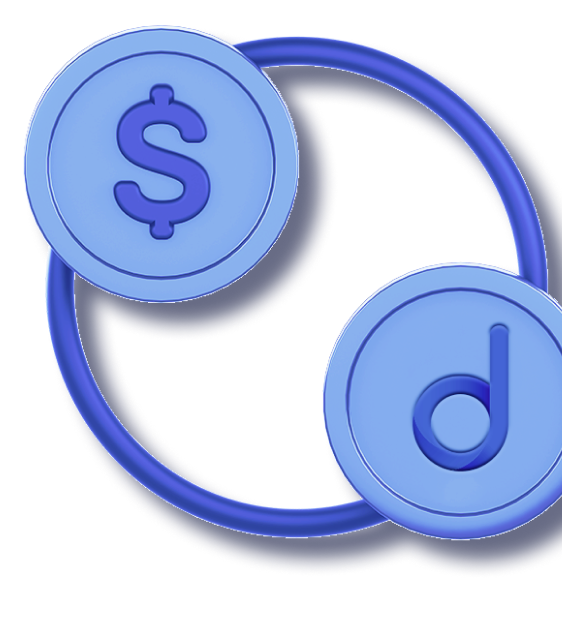
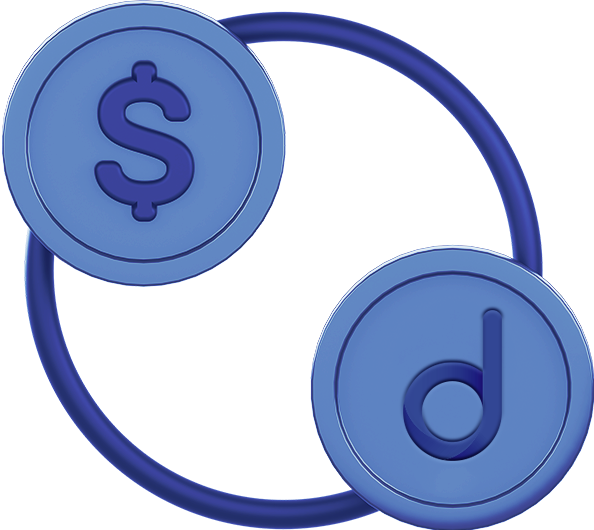
background image position fix

diff --git a/frontend-landing/src/pages/Landing/sections/advertise.section.tsx b/frontend-landing/src/pages/Landing/sections/advertise.section.tsx
@@ -18,11 +18,23 @@ import { ThemeSwitch, TokenCard } from 'components'
 
 const useStyles = makeStyles(({ palette, breakpoints }) => ({
   root: {
-    background: `url(${BACKGROUND_COIN}) right top no-repeat, url(${BACKGROUND_WAVE}) left top no-repeat`,
-    backgroundSize: '500px, contain',
+    background: `url(${BACKGROUND_WAVE}) no-repeat`,
+    backgroundSize: 'cover',
+    backgroundPosition: 'center center',
 
     [breakpoints.down('sm')]: {
-      background: `url(${BACKGROUND_COIN_MOBILE}) no-repeat, url(${BACKGROUND_WAVE}) left top 350px no-repeat`,
+      background: `url(${BACKGROUND_WAVE}) left top 350px no-repeat`,
+      backgroundSize: 'contain',
+      textAlign: 'center'
+    }
+  },
+
+  container: {
+    background: `url(${BACKGROUND_COIN}) right top no-repeat`,
+    backgroundSize: '500px',
+
+    [breakpoints.down('sm')]: {
+      background: `url(${BACKGROUND_COIN_MOBILE}) no-repeat`,
       backgroundSize: 'contain',
       textAlign: 'center'
     }
@@ -84,7 +96,7 @@ const AdSection: React.FC = () => {
 
   return (
     <Box className={cx(classes.root)}>
-      <Container>
+      <Container className={cx(classes.container)}>
         <Box pt={!mobile ? '100px' : '350px'} />
 
         <Box className={cx(classes.description)}>

diff --git a/frontend-landing/src/components/DataGrid/TokenAssetGrid.tsx b/frontend-landing/src/components/DataGrid/TokenAssetGrid.tsx
@@ -30,6 +30,9 @@ const StyledDataGrid = withStyles(theme => ({
     },
     '& .MuiDataGrid-cell': {
       border: 'unset !important'
+    },
+    '& .MuiDataGrid-columnsContainer': {
+      border: 'unset !important'
     }
   },
   columnHeader: {
